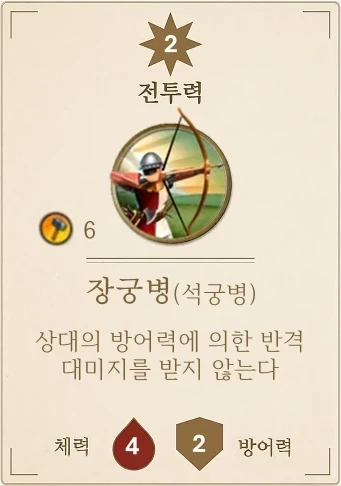
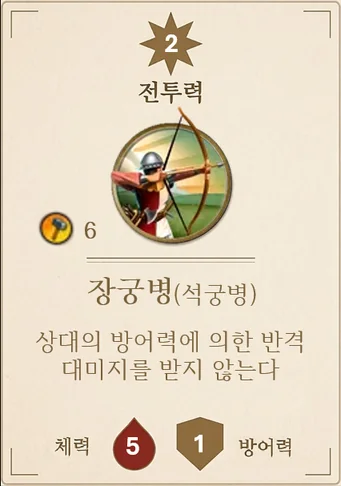
장궁병 카드 그림 3장(L·C·R) 새 카드로 교체
Claude-Session: https://claude.ai/code/session_01LEwiRiXRJPjckZxHM1aEbm

diff --git a/docs/open-questions.md b/docs/open-questions.md
@@ -71,7 +71,7 @@
 | 64 | 그리스 카드 | 사용자 결정(새 카드): 그리스 시작 행복 3 → **4**, 시작 장군 1 **삭제** (시작 문화 1·고유 유닛 2장은 그대로). 게임 안 그리스 문명 카드 그림도 새 카드로 교체 |
 | 65 | 케식텐 방어력·임피 체력 | 사용자 결정(새 카드): 몽골 케식텐 방어력 1 → **0** (망치 6, 체력 5, 1-4번 중 골라 전투력 2, 반격 없음은 그대로). 낙타궁수 새 카드(망치 6, 체력 4, 방어력 2)는 데이터와 같음. 줄루 임피 체력 3 → **4** (새 카드: 망치 4, 전투력 2, 방어력 3, 효과 그대로) |
 | 66 | 연노병 방어력 | 사용자 결정(새 카드): 중국 연노병 방어력 2 → **3** (망치 6, 체력 4, 전투력 1 마크 2개·방향 조합 3종, 방어력 반격 없음은 그대로). 게임 안 연노병 카드 그림 3장도 교체 |
-| 67 | 장궁병 체력·방어력 | 사용자 결정(새 카드): 영국 장궁병 체력 4 → **5**, 방어력 2 → **1** (망치 6, 전투력 2·방향 3종, 방어력 반격 없음은 그대로). 카드 그림 파일은 받지 못해 수치만 반영 |
+| 67 | 장궁병 체력·방어력 | 사용자 결정(새 카드): 영국 장궁병 체력 4 → **5**, 방어력 2 → **1** (망치 6, 전투력 2·방향 3종, 방어력 반격 없음은 그대로). 게임 안 장궁병 카드 그림 3장도 교체 |
 
 ## 공개 범위 (설계 결정)
 - 공개: 타일·기술·정책·불가사의·군사 카드 **장수**, 로그에 남는 "무엇을 생산·승급했는지".
